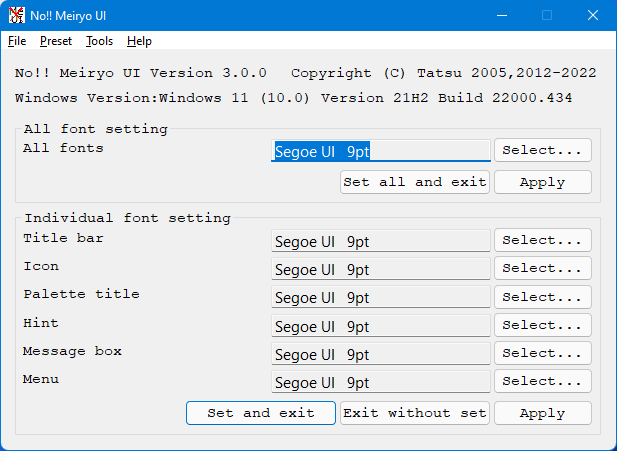
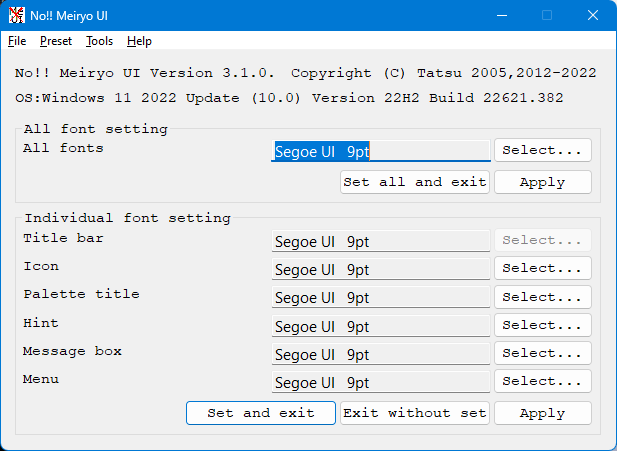
Japanese and English help files sources.

diff --git a/help/ja-jp/contents/03.html b/help/ja-jp/contents/03.html
@@ -21,6 +21,16 @@ The sources for noMeiryoUI are distributed under the MIT open source license
 <h1>3.製作履歴</h1>
 
 <div class="chapter">
+<h2>2022/09/21 Version 3.1.0</h2>
+<ul>
+<li>Windows 11 2022 Update(22H2)ではタイトルバーに透明を設定したときの問題を回避するため、タイトルバーのフォントを強制的に標準のフォント設定にするようにしました。</li>
+<li>同様の理由でWindows 11 2022 Update(22H2)ではタイトルバーのフォントを選択できなくしました。</li>
+<li>Windows 11 2022 UpdateではWindows 11 2022 Updateと表示するようにしました。</li>
+</ul>
+</div>
+<hr>
+
+<div class="chapter">
 <h2>2022/06/26 Version 3.0.0.1</h2>
 <ul>
 <li>Luke Luo氏による簡体字中国語の訳と表示フォント設定の更新を取り込みました。</li>

diff --git a/help/en-us/contents/03.html b/help/en-us/contents/03.html
@@ -21,6 +21,16 @@ The sources for noMeiryoUI are distributed under the MIT open source license
 <h1>3.History</h1>
 
 <div class="chapter">
+<h2>09/21/2022 Version 3.1.0</h2>
+<ul>
+<li>On Windows 11 2022 Update(22H2) force set system setting to title bar font, to avoid problem when transparent effect is applied on title bar,</li>
+<li>By same reason, title bar font select button is disabled on Windows 11 2022 Update(22H2).</li>
+<li>Show version number &quot;Windows 11 2022 Update&quot; on Windows 11 2022 Update,</li>
+</ul>
+</div>
+<hr>
+
+<div class="chapter">
 <h2>06/26/2022 Version 3.0.0.1</h2>
 <ul>
 <li>Improved Simplified Chinese translations and fonts by Luke Luo.</li>

diff --git a/help/ja-jp/contents/04.html b/help/ja-jp/contents/04.html
@@ -54,7 +54,7 @@ My Web page <a href="http://tatsu.life.coocan.jp/index.html">http://tatsu.life.c
 <th>言語</th><th>翻訳者</th>
 </tr>
 <tr>
-<td>簡体字中国語</td><td>立花 月下様、kingofotaku様、icebeam030様、LucidLoli様</td>
+<td>簡体字中国語</td><td>立花 月下様、kingofotaku様、icebeam030様、LucidLoli様、Luke Luo様</td>
 </tr>
 <tr>
 <td>繁体字中国語</td><td>Austin Chang様</td>

diff --git a/help/en-us/contents/04.html b/help/en-us/contents/04.html
@@ -45,7 +45,7 @@ My Web page <a href="http://tatsu.life.coocan.jp/index.html">http://tatsu.life.c
 <th>Language</th><th>Author</th>
 </tr>
 <tr>
-<td>Simplified Chinese</td><td>Gekka Tachibana,kingofotaku,icebeam030,LucidLoli</td>
+<td>Simplified Chinese</td><td>Gekka Tachibana,kingofotaku,icebeam030,LucidLoli,Luke Luo</td>
 </tr>
 <tr>
 <td>Traditional Chinese</td><td>Austin Chang</td>

diff --git a/help/ja-jp/contents/02.html b/help/ja-jp/contents/02.html
@@ -29,7 +29,7 @@ The sources for noMeiryoUI are distributed under the MIT open source license
 </p>
 
 <p>
-<img src="noMeiryoUI.PNG" width="617" height="451" alt="Meiryo UIも大っきらい!!画面"><br>
+<img src="noMeiryoUI.PNG" width="627" height="456" alt="Meiryo UIも大っきらい!!画面"><br>
 </p>
 </div>
 <hr>
